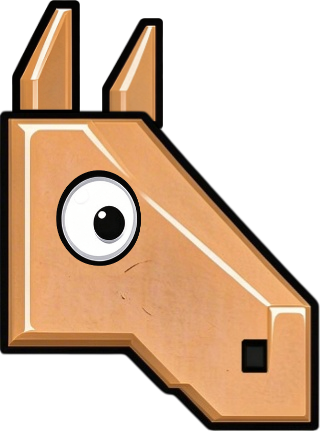
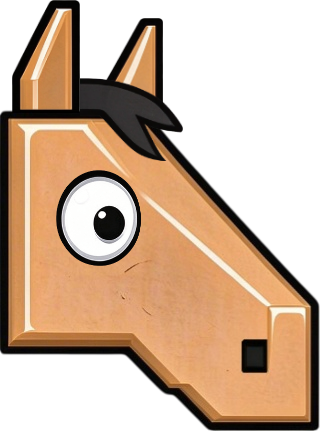
feat: add forelock hair layer to horse head
Add the approved forelock above the head and clip its left end behind the
front ear. Expose a hair prop (default on) so the runtime and both snapshot
eye states keep the haired look from the reference.

Tests:
- python assets/horse-head/assemble.py --eye normal/surprised reproduced
  both snapshots (alpha IoU 0.9965; mean colour diff 0.67/0.57 /255).
- npm run lint.

Changed region(s): [[0.25, 0.181, 0.5938, 0.3921]]

diff --git a/src/horse-head-manifest.ts b/src/horse-head-manifest.ts
@@ -1,10 +1,12 @@
 // 独立马头装配表：坐标全部落在参考图 ma-tou.png 的 320×431 画布上，不挂在马身上。
-// 分层顺序：后耳 → 前耳 → 头盖 → 眼睛（耳根压进头盖下，与参考图一致）。
+// 分层顺序：后耳 → 前耳 → 头盖 →（头发）→ 眼睛；耳根压进头盖下，与参考图一致。
 // 脸件与参考图同画布 1:1（鼻孔 242,340 同位）；眼件 0.1215 → (78,185) 48×65（IoU 0.995）；
 // 前耳 0.1159 → 参考左耳 (12,0) 68×117（IoU 0.946）；后耳 0.1241 对齐参考右耳后下移 10px 至 (102,18)，
 // 让根部整段压在头盖下（参考图里背耳在脸的下层；原对齐位右下角探出脸缘、与脸顶之间露白缝）。
 // 吃惊眼（ma-chijing）按参考图 2× 版换算回画布即原生 85×96；环 bbox 在参考 1× 画布上 (56,170) 85×97，
 // 瞳孔 31×34 与件一致，故 1:1 落在 (56,170)；整数落位让 Remotion 与快照包重拼逐像素一致。
+// 头发（ma-toufa）按戴发参考图（317×420，约 0.865 画布）换算：件 124×91 → 0.909 → (70,78) 113×83，
+// 填充 IoU 0.814；发层画在头盖之上、用前耳 alpha 遮罩，前耳仍压住发根（参考图里前耳在发前、背耳在发后）。
 // 注：file 仅记录原素材文件名（溯源），运行时按 key 拼 parts-horse/<key>.png，不读此字段。
 import type { PartDef } from "./horse-manifest";
 
@@ -17,6 +19,7 @@ export const PARTS_HORSE_HEAD: Record<string, PartDef> = {
   head: { file: "ma-nian.png", x: 0, y: 0, w: 320, h: 431 },
   ear_front: { file: "ma-erduo-qianmian.png", x: 12, y: 0, w: 68, h: 117 },
   ear_back: { file: "ma-erduo-houmian.png", x: 102, y: 18, w: 61, h: 111 },
+  hair: { file: "ma-toufa.png", x: 70, y: 78, w: 113, h: 83 },
   eye_normal: { file: "ma-yanjing-zhengchang.png", x: 78, y: 185, w: 48, h: 65 },
   eye_surprised: { file: "ma-chijing.png", x: 56, y: 170, w: 85, h: 96 },
 };

diff --git a/src/HorseHead.tsx b/src/HorseHead.tsx
@@ -1,3 +1,4 @@
+import type { CSSProperties } from "react";
 import { AbsoluteFill, Img, staticFile } from "remotion";
 
 import {
@@ -9,10 +10,24 @@ import {
 
 export type HorseHeadProps = {
   eye?: HorseEyeState;
+  hair?: boolean;
 };
 
-export const HorseHead = ({ eye = "normal" }: HorseHeadProps) => {
-  const order = [...HORSE_HEAD_BASE_ORDER, HORSE_EYE_STATES[eye]];
+export const HorseHead = ({ eye = "normal", hair = true }: HorseHeadProps) => {
+  const hairPart = PARTS_HORSE_HEAD.hair;
+  const frontEar = PARTS_HORSE_HEAD.ear_front;
+  const earRight = frontEar.x + frontEar.w - hairPart.x;
+  const earBottom = frontEar.y + frontEar.h - hairPart.y;
+  const hairStyle: CSSProperties = {
+    clipPath: `polygon(${earRight}px 0, 100% 0, 100% 100%, 0 100%, 0 ${earBottom}px, ${earRight}px ${earBottom}px)`,
+  };
+
+  const order = [
+    ...HORSE_HEAD_BASE_ORDER,
+    ...(hair ? ["hair"] : []),
+    HORSE_EYE_STATES[eye],
+  ];
+
   return (
     <AbsoluteFill>
       {order.map((name) => {
@@ -21,7 +36,14 @@ export const HorseHead = ({ eye = "normal" }: HorseHeadProps) => {
           <Img
             key={name}
             src={staticFile(`parts-horse/${name}.png`)}
-            style={{ position: "absolute", left: p.x, top: p.y, width: p.w, height: p.h }}
+            style={{
+              position: "absolute",
+              left: p.x,
+              top: p.y,
+              width: p.w,
+              height: p.h,
+              ...(name === "hair" ? hairStyle : {}),
+            }}
           />
         );
       })}

diff --git a/assets/horse-head/assemble.py b/assets/horse-head/assemble.py
@@ -7,7 +7,7 @@ import argparse
 import json
 from pathlib import Path
 
-from PIL import Image
+from PIL import Image, ImageDraw
 
 ROOT = Path(__file__).resolve().parent
 spec = json.loads((ROOT / "manifest.json").read_text(encoding="utf-8"))
@@ -31,6 +31,10 @@ for source in spec["layers"]:
     tw, th = round(rect["w"]), round(rect["h"])
     if im.size != (tw, th):
         im = im.resize((tw, th), Image.LANCZOS)
+    if "clipPolygon" in layer:
+        mask = Image.new("L", (tw, th), 0)
+        ImageDraw.Draw(mask).polygon([tuple(p) for p in layer["clipPolygon"]], fill=255)
+        im.putalpha(Image.composite(im.getchannel("A"), Image.new("L", (tw, th), 0), mask))
     canvas.alpha_composite(im, (round(rect["x"]), round(rect["y"])))
 
 out = Path(args.out)

diff --git a/assets/horse-head/README.md b/assets/horse-head/README.md
@@ -4,10 +4,10 @@
 
 ## 包含
 
-- `horse-head.png` — 透明底装配图（正常眼），320×431；alpha 触四边，裁切版与整图相同
-- `horse-head-surprised.png` — 同画布吃惊眼
-- `pieces/` — 5 个分件：后耳、前耳、头盖、正常眼、吃惊眼
-- `manifest.json` — 基础 3 层 + `eyeStates`（normal / surprised）眼睛层；`sourceFiles` 记录原素材文件名
+- `horse-head.png` — 透明底装配图（正常眼 + 头发），320×431；alpha 触四边，裁切版与整图相同
+- `horse-head-surprised.png` — 同画布吃惊眼 + 头发
+- `pieces/` — 6 个分件：后耳、前耳、头盖、头发、正常眼、吃惊眼
+- `manifest.json` — 基础 3 层 + 头发层 + `eyeStates`（normal / surprised）眼睛层；`sourceFiles` 记录原素材文件名
 - `assemble.py` — 独立重拼脚本（需 Pillow）：`python assemble.py [out.png] [--eye normal|surprised]`
 
 ## 重新拼合
@@ -21,7 +21,20 @@ python assemble.py out-surprised.png --eye surprised
 
 ## 层级
 
-后耳 → 前耳 → 头盖 → 眼睛；耳根压在头盖下，与参考图 `ma-tou.png` 一致。
+后耳 → 前耳 → 头盖 → 头发 → 眼睛；耳根压在头盖下，与参考图 `ma-tou.png` 一致。
+
+头发画在头盖之上、但用 `clipPolygon` 前耳右缘裁切（发层局部 x=10、y=39 对应前耳右缘与耳根），让前耳压住发根、背耳被头发盖住，与戴发参考一致。
+
+## 分件落位
+
+| 件 | 落位 | 说明 |
+| --- | --- | --- |
+| 头盖 | (0,0) 320×431 | 1:1 |
+| 前耳 | (12,0) 68×117 | 0.1159 缩放 |
+| 后耳 | (102,18) 61×111 | 0.1241 缩放，根部下移 10px 压进头盖 |
+| 头发 | (70,78) 113×83 | 0.909 缩放，按戴发参考（317×420 ≈ 0.865 画布）换算 |
+| 正常眼 | (78,185) 48×65 | 0.1215 缩放 |
+| 吃惊眼 | (56,170) 85×96 | 1:1 |
 
 ## 眼睛状态
 
@@ -32,17 +45,21 @@ python assemble.py out-surprised.png --eye surprised
 
 吃惊眼参考图为 644×874（同画布 2×），换算回 320×431 后环 bbox 为 (56,170) 85×97，与件 85×96 一致；瞳孔 31×34 两图相同，故按 1:1 落在 (56,170)。
 
+## 头发
+
+参考图 317×420（马头约 0.865 缩放，带脖子），用眼/鼻孔中心求出参考→320×431 的相似变换；发件 124×91 按填充 IoU 拟合：0.909 → (70,78) 113×83，对参考 1× 画布的头发填充 IoU 0.82（参考含发下阴影，面积略大）。无旋转拟合更优（旋转 −6° 时 IoU 0.76）。
+
 ## 说明
 
 - 本包是快照；运行时真源仍是 `public/parts-horse/` 与 `src/horse-head-manifest.ts`。
-- 坐标即参考图 `ma-tou.png` 的 320×431 画布；头盖 1:1，正常眼 0.1215、前/后耳 0.1159/0.1241 缩放落位。
-- 只有马头，不含马身与骑乘；鸭的最终形态在 `assets/final-duck/`，马鞍单件在 `assets/horse-saddle/`。
+- 坐标即参考图 `ma-tou.png` 的 320×431 画布；头盖 1:1，头发 0.909，正常眼 0.1215、前/后耳 0.1159/0.1241 缩放落位。
+- 只有马头，不含马身与骑乘；鸭的最终形态在 `assets/final-duck/`，马鞍单件在 `assets/horse-saddle/`，马身上半身静态装配在 `assets/horse-upper/`。
 
 ## 自校验
 
 从 `pieces/` 与 `manifest.json` 重拼，与 `npx remotion still HorseHead` / `npx remotion still HorseHeadSurprised` 的渲染图对比：
 
-- normal：透明度 IoU 0.9999，平均色差 0.62/255（耳件缩放重采样所致）
-- surprised：透明度 IoU 0.9999，平均色差 0.52/255
+- normal：透明度 IoU 0.9999，平均色差 0.63/255（耳件缩放重采样所致）
+- surprised：透明度 IoU 0.9999，平均色差 0.53/255
 
 吃惊眼对参考图 1× 画布（644×874 按 1/2 缩到 320×431 后对齐）：环心偏 (0.4, −0.7) px，瞳孔心偏 (−0.5, −0.6) px。
